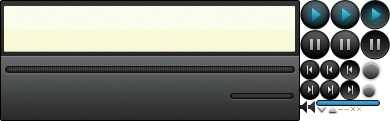
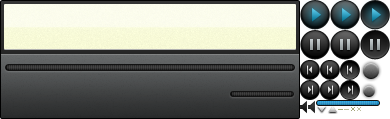
style changes

diff --git a/build/player.js b/build/player.js
@@ -1,1 +1,1 @@
-Ext.ns("Xap").Format={formatTime:function(c){var b=c/1000,a=Math.floor(b/60),d=Math.floor(b%60);return Ext.String.format("{0}:{1}",a,d<10?"0"+d:d)}};Ext.ns("Xap").Format={formatTime:function(c){var b=c/1000,a=Math.floor(b/60),d=Math.floor(b%60);return Ext.String.format("{0}:{1}",a,d<10?"0"+d:d)}};Ext.ns("Xap").Templates={trackInfo:new Ext.XTemplate('<p class="xap-time-elapsed">{position:this.formatPosition}</p>','<div class="xap-id3">','<p class="xap-artist">{artist:defaultValue("Unknown")}</p>','<p class="xap-title">{title:defaultValue("Unknown")}</p>',"</div>",'<p class="xap-time-total">{duration:this.formatDuration}</p>',{formatPosition:function(a){return Xap.Format.formatTime(a||0)},formatDuration:function(a){return a?Xap.Format.formatTime(a):""}})};Ext.define("Xap.TrackInfo",{extend:"Ext.panel.Panel",alias:"widget.xap.trackinfo",requires:["Xap.Templates"],height:56,tpl:Xap.Templates.trackInfo,cls:"xap-trackinfo",initComponent:function(){this.info={};this.callParent(arguments)},set:function(a){this.update(Ext.apply(this.info,a))},clear:function(){(new Ext.core.Element(this.body)).update("")}});Ext.define("Xap.TrackSlider",{extend:"Ext.slider.Single",alias:"widget.xap.trackslider",animate:false,width:290,value:0,increment:1,minValue:0,maxValue:0,cls:"xap-trackslider",tipText:function(a){return Xap.Format.formatTime(a.value)}});Ext.define("Xap.VolumeSlider",{extend:"Ext.slider.Single",alias:"widget.xap.volumeslider",animate:false,width:64,value:0,increment:1,minValue:0,maxValue:100,cls:"xap-volumeslider",tipText:function(a){return a.value+"%"}});Ext.regModel("Track",{fields:["url","artist","title","duration","album","smSound"]});Ext.define("Xap.Playlist",{extend:"Ext.grid.GridPanel",alias:"widget.xap.playlist",showArtist:true,height:200,width:300,border:0,cls:"xap-playlist",sortableHeaders:false,constructor:function(){this.addEvents("trackselect");this.callParent(arguments)},initComponent:function(){var b=this,a=[{header:"Track",dataIndex:"title",flex:1,menuDisabled:true}];if(b.showArtist){a.push({header:"Artist",dataIndex:"artist",flex:1,menuDisabled:true})}if(b.showTime){a.push({header:"Time",dataIndex:"duration",renderer:b.renderTime,width:35,menuDisabled:true})}if(b.showAlbum){a.push({header:"Album",dataIndex:"album",flex:1,menuDisabled:true})}Ext.apply(b,{columns:a,selModel:Ext.create("Ext.selection.RowModel",{enableKeyNav:false,listeners:{select:{fn:b.onSelect,scope:b}}})});b.callParent(arguments)},moveTo:function(a){this.getSelectionModel().select(a)},onSelect:function(c,a,b){this.fireEvent("trackselect",b)},renderTime:function(a){return a?Xap.Format.formatTime(a):""}});Ext.define("Xap.Player",{extend:"Ext.panel.Panel",alias:"widget.xap.player",requires:["Xap.TrackInfo","Xap.TrackSlider","Xap.VolumeSlider","Xap.Playlist"],statics:{autoSid:0},volume:75,lazy:true,height:121,width:300,cls:"xap-player",layout:"anchor",initComponent:function(){var b=this,c=new Xap.TrackInfo(),a=new Xap.TrackSlider({listeners:{render:{fn:b.disableSlider,scope:b},dragstart:{fn:b.onTrackSliderDragStart,scope:b},changecomplete:{fn:b.onTrackSliderChangeComplete,scope:b}}});Ext.apply(b,{trackInfo:c,trackSlider:a,store:new Ext.data.Store({model:"Track"}),items:[c,a],bbar:b.initBottomBar()});b.callParent(arguments)},initBottomBar:function(){var f=this,c=Ext.button.Button,b=f.playlistButton=new c({tooltip:"Playlist",cls:"xap-arrow-up",handler:f.togglePlaylist,scope:f}),d=f.playButton=new c({tooltip:"Play|Pause",cls:"xap-play",handler:f.togglePause,scope:f}),j=f.muteButton=new c({tooltip:"Mute|Unmute",cls:"xap-unmuted",handler:f.toggleMute,scope:f}),g=f.prevButton=new c({tooltip:"Previous",cls:"xap-prev",handler:f.movePrev,scope:f}),h=f.nextButton=new c({tooltip:"Next",cls:"xap-next",handler:f.moveNext,scope:f}),a=f.onVolumeSliderChange,i=f.volumeSlider=new Xap.VolumeSlider({value:f.volume,listeners:{render:{fn:f.disableSlider,scope:f},drag:{fn:a,scope:f},changecomplete:{fn:a,scope:f}}}),e=function(k){return{xtype:"tbspacer",width:k}};return[e(4),b,e(92),g,e(3),d,e(3),h,"->",j,e(2),i,e(6)]},afterRender:function(){var b=this,a=b.getEl(),c=b.playlist=Ext.create("Xap.Playlist",Ext.apply(b.playlistConfig||{},{store:b.store,listeners:{trackselect:{fn:b.onPlaylistTrackSelect,scope:b},itemmousedown:{fn:b.onPlaylistItemMousedown,scope:b}},renderTo:a.parent()}));b.callParent(arguments);if(!b.showPlaylist){b.togglePlaylist()}c.alignTo(a,"tl-bl");if(b.files){if(b.autoPlay){b.loadAndPlay(b.files)}else{b.load(b.files)}}},loadAndPlay:function(c){var b=this,a=b.store.getCount();b.load(c);b.moveTo(a);b.play()},load:function(b){var a=this;Ext.Array.forEach(b,function(d){var c=a.createSmSound(d,true);c.load();a.store.add({url:d,smSound:c})});if(!Ext.isNumber(a.currentTrackIndex)){a.moveTo(0)}a.trackSlider.enable();a.volumeSlider.enable()},unload:function(d){var c=this,a=c.store,b;if(!d){a.each(function(e){c.unload(e.get("url"))})}if(Ext.isArray(d)){Ext.Array.forEach(d,function(e){c.unload(e)})}b=c.getTrackIndexByUrl(d);if(b===c.currentTrackIndex){c.moveNext();c.currentTrackIndex=Math.min(c.currentTrackIndex-1,0)}if(b<c.currentTrackIndex){c.currentTrackIndex--}a.getAt(b).get("smSound").destruct();a.removeAt(b);if(a.getCount()===0){this.trackSlider.disable();this.volumeSlider.disable()}},togglePause:function(){var a=this;if(a.getCurrentSmSound()){if(a.isPlaying()){a.pause()}else{a.play()}}},pause:function(){var b=this,a=b.getCurrentSmSound();if(b.isPlaying()){a.pause();b.playButton.removeCls("xap-pause");b.playButton.addCls("xap-play")}},play:function(){var b=this,a=b.getCurrentSmSound();if(!b.isPlaying()){a.play();b.playButton.removeCls("xap-play");b.playButton.addCls("xap-pause")}},stop:function(){var a=this.getCurrentSmSound();if(a){a.stop()}},mute:function(){this.getCurrentSmSound().mute();this.muteButton.removeCls("xap-unmuted");this.muteButton.addCls("xap-muted");this.volumeSlider.setValue(0)},unmute:function(){var b=this,a=b.getCurrentSmSound();b.getCurrentSmSound().unmute();b.muteButton.removeCls("xap-muted");b.muteButton.addCls("xap-unmuted");b.volumeSlider.setValue(a.volume)},toggleMute:function(){if(this.getCurrentSmSound().muted){this.unmute()}else{this.mute()}},movePrev:function(){var b=this,a=b.currentTrackIndex;if(a===0){if(b.repeat){b.moveTo(b.store.getCount()-1)}else{return false}}else{b.moveTo(a-1)}return true},moveNext:function(){var b=this,a=b.currentTrackIndex;if(a===b.store.getCount()-1){if(b.repeat){b.moveTo(0)}else{return false}}else{b.moveTo(a+1)}return true},moveTo:function(c){var d=this,a=d.getCurrentSmSound(),f=d.isPlaying(),e=a&&(a.muted),b=d.prevButton,g=d.nextButton;d.stop();d.currentTrackIndex=c;a=d.getCurrentSmSound();a.load();d.updateTrackPosition(0);d.updateTrackInfoDisplay();if(a.loaded){d.setTrackDuration(a,true)}else{d.setTrackDuration(a)}d.onVolumeSliderChange(d.volumeSlider);if(!d.repeat){if(c===0){b.disable();g.enable()}else{if(c===d.store.getCount()-1){g.disable();b.enable()}else{b.enable();g.enable()}}}if(e){d.mute()}if(f){d.play()}d.playlist.moveTo(c)},createSmSound:function(a){var b=this,c=function(d){return function(){d.call(b,this)}};return soundManager.createSound({id:"xap-sound-"+this.self.autoSid++,url:a,onload:c(b.onLoad),onid3:c(b.onId3),whileloading:c(b.onWhileLoading),whileplaying:c(b.onWhilePlaying),onfinish:c(b.onTrackFinish)})},updateTrackInfoDisplay:function(){this.trackInfo.set(this.getId3Info(this.getCurrentSmSound()))},getId3Info:function(a){var b=a.id3;return{artist:b.TPE1,title:b.TIT2,album:b.TALB,duration:b.TLEN}},onId3:function(b){var a=this.getTrackByUrl(b.url);a.set(this.getId3Info(b));a.commit();if(this.isCurrentSmSound(b)){this.updateTrackInfoDisplay()}else{if(this.lazy){b.unload()}}},onWhileLoading:function(a){if(!a.id3.TLEN){this.setTrackDuration(a)}},onLoad:function(a){this.setTrackDuration(a,true)},setTrackDuration:function(b,d){var c=d?b.duration:b.durationEstimate||0,a=this.getTrackByUrl(b.url);a.set({duration:c});a.commit();if(this.isCurrentSmSound(b)){this.updateTrackDurationDisplay(c)}},updateTrackDurationDisplay:function(a){this.trackInfo.set({duration:a});this.trackSlider.setMaxValue(a)},updateTrackPosition:function(a){if(!Ext.isNumber(a)){a=this.getCurrentSmSound().position}if(!this.isSliderDragging){this.trackInfo.set({position:a});this.trackSlider.setValue(a)}},onWhilePlaying:function(a){this.updateTrackPosition()},onTrackSliderDragStart:function(a,b){this.isSliderDragging=true},onTrackSliderChangeComplete:function(b){var a=b.getValue();this.isSliderDragging=false;this.getCurrentSmSound().setPosition(b.getValue());if(a===0){this.updateTrackPosition(0)}},onVolumeSliderChange:function(b){var a=this.getCurrentSmSound();a.setVolume(b.getValue());this.unmute()},onTrackFinish:function(a){var b=this;if(b.moveNext()){b.play()}else{b.moveTo(0);b.playButton.removeCls("xap-pause");b.playButton.addCls("xap-play")}},disableSlider:function(a){if(!this.getCurrentSmSound()){a.disable()}},getCurrentSmSound:function(){var a=this.store.getAt(this.currentTrackIndex);return a?a.get("smSound"):null},isCurrentSmSound:function(a){return a===this.getCurrentSmSound()},getTrackByUrl:function(a){return this.store.findRecord("url",a,0,false,true,true)},getTrackIndexByUrl:function(a){return this.store.find("url",a,0,false,true,true)},togglePlaylist:function(){var a=this,c=a.playlist,b=a.playlistButton;if(c.isHidden()){c.show();b.removeCls("xap-arrow-down");b.addCls("xap-arrow-up")}else{c.hide();b.removeCls("xap-arrow-up");b.addCls("xap-arrow-down")}},isPlaying:function(){var a=this.getCurrentSmSound();return a&&a.playState===1&&!a.paused},onTrackSelect:function(a){this.moveTo(a);this.play()},onPlaylistTrackSelect:function(a){this.moveTo(a)},onPlaylistItemMousedown:function(){this.getCurrentSmSound().setPosition(0);this.play()}});
+Ext.ns("Xap").Format={formatTime:function(c){var b=c/1000,a=Math.floor(b/60),d=Math.floor(b%60);return Ext.String.format("{0}:{1}",a,d<10?"0"+d:d)}};Ext.ns("Xap").Format={formatTime:function(c){var b=c/1000,a=Math.floor(b/60),d=Math.floor(b%60);return Ext.String.format("{0}:{1}",a,d<10?"0"+d:d)}};Ext.ns("Xap").Templates={trackInfo:new Ext.XTemplate('<p class="xap-time-elapsed">{position:this.formatPosition}</p>','<div class="xap-id3">','<p class="xap-artist">{artist:defaultValue("Unknown")}</p>','<p class="xap-title">{title:defaultValue("Unknown")}</p>',"</div>",'<p class="xap-time-total">{duration:this.formatDuration}</p>',{formatPosition:function(a){return Xap.Format.formatTime(a||0)},formatDuration:function(a){return a?Xap.Format.formatTime(a):""}})};Ext.define("Xap.TrackInfo",{extend:"Ext.panel.Panel",alias:"widget.xap.trackinfo",requires:["Xap.Templates"],height:54,tpl:Xap.Templates.trackInfo,cls:"xap-trackinfo",initComponent:function(){this.info={};this.callParent(arguments)},set:function(a){this.update(Ext.apply(this.info,a))},clear:function(){(new Ext.core.Element(this.body)).update("")}});Ext.define("Xap.TrackSlider",{extend:"Ext.slider.Single",alias:"widget.xap.trackslider",animate:false,width:290,value:0,increment:1,minValue:0,maxValue:0,cls:"xap-trackslider",tipText:function(a){return Xap.Format.formatTime(a.value)}});Ext.define("Xap.VolumeSlider",{extend:"Ext.slider.Single",alias:"widget.xap.volumeslider",animate:false,width:64,value:0,increment:1,minValue:0,maxValue:100,cls:"xap-volumeslider",tipText:function(a){return a.value+"%"}});Ext.regModel("Track",{fields:["url","artist","title","duration","album","smSound"]});Ext.define("Xap.Playlist",{extend:"Ext.grid.GridPanel",alias:"widget.xap.playlist",showArtist:true,height:200,width:300,border:0,cls:"xap-playlist",sortableHeaders:false,constructor:function(){this.addEvents("trackselect");this.callParent(arguments)},initComponent:function(){var b=this,a=[{header:"Track",dataIndex:"title",flex:1,menuDisabled:true}];if(b.showArtist){a.push({header:"Artist",dataIndex:"artist",flex:1,menuDisabled:true})}if(b.showTime){a.push({header:"Time",dataIndex:"duration",renderer:b.renderTime,width:35,menuDisabled:true})}if(b.showAlbum){a.push({header:"Album",dataIndex:"album",flex:1,menuDisabled:true})}Ext.apply(b,{columns:a,selModel:Ext.create("Ext.selection.RowModel",{enableKeyNav:false,listeners:{select:{fn:b.onSelect,scope:b}}})});b.callParent(arguments)},moveTo:function(a){this.getSelectionModel().select(a)},onSelect:function(c,a,b){this.fireEvent("trackselect",b)},renderTime:function(a){return a?Xap.Format.formatTime(a):""}});Ext.define("Xap.Player",{extend:"Ext.panel.Panel",alias:"widget.xap.player",requires:["Xap.TrackInfo","Xap.TrackSlider","Xap.VolumeSlider","Xap.Playlist"],statics:{autoSid:0},volume:75,lazy:true,height:119,width:300,cls:"xap-player",layout:"anchor",initComponent:function(){var b=this,c=new Xap.TrackInfo(),a=new Xap.TrackSlider({listeners:{render:{fn:b.disableSlider,scope:b},dragstart:{fn:b.onTrackSliderDragStart,scope:b},changecomplete:{fn:b.onTrackSliderChangeComplete,scope:b}}});Ext.apply(b,{trackInfo:c,trackSlider:a,store:new Ext.data.Store({model:"Track"}),items:[c,a],bbar:b.initBottomBar()});b.callParent(arguments)},initBottomBar:function(){var f=this,c=Ext.button.Button,b=f.playlistButton=new c({tooltip:"Playlist",cls:"xap-arrow-up",handler:f.togglePlaylist,scope:f}),d=f.playButton=new c({tooltip:"Play|Pause",cls:"xap-play",handler:f.togglePause,scope:f}),j=f.muteButton=new c({tooltip:"Mute|Unmute",cls:"xap-unmuted",handler:f.toggleMute,scope:f}),g=f.prevButton=new c({tooltip:"Previous",cls:"xap-prev",handler:f.movePrev,scope:f}),h=f.nextButton=new c({tooltip:"Next",cls:"xap-next",handler:f.moveNext,scope:f}),a=f.onVolumeSliderChange,i=f.volumeSlider=new Xap.VolumeSlider({value:f.volume,listeners:{render:{fn:f.disableSlider,scope:f},drag:{fn:a,scope:f},changecomplete:{fn:a,scope:f}}}),e=function(k){return{xtype:"tbspacer",width:k}};return[e(4),b,e(92),g,e(3),d,e(3),h,"->",j,e(2),i,e(6)]},afterRender:function(){var b=this,a=b.getEl(),c=b.playlist=Ext.create("Xap.Playlist",Ext.apply(b.playlistConfig||{},{store:b.store,listeners:{trackselect:{fn:b.onPlaylistTrackSelect,scope:b},itemmousedown:{fn:b.onPlaylistItemMousedown,scope:b}},renderTo:a.parent()}));b.callParent(arguments);if(!b.showPlaylist){b.togglePlaylist()}c.alignTo(a,"tl-bl");if(b.files){if(b.autoPlay){b.loadAndPlay(b.files)}else{b.load(b.files)}}},loadAndPlay:function(c){var b=this,a=b.store.getCount();b.load(c);b.moveTo(a);b.play()},load:function(b){var a=this;Ext.Array.forEach(b,function(d){var c=a.createSmSound(d,true);c.load();a.store.add({url:d,smSound:c})});if(!Ext.isNumber(a.currentTrackIndex)){a.moveTo(0)}a.trackSlider.enable();a.volumeSlider.enable()},unload:function(d){var c=this,a=c.store,b;if(!d){a.each(function(e){c.unload(e.get("url"))})}if(Ext.isArray(d)){Ext.Array.forEach(d,function(e){c.unload(e)})}b=c.getTrackIndexByUrl(d);if(b===c.currentTrackIndex){c.moveNext();c.currentTrackIndex=Math.min(c.currentTrackIndex-1,0)}if(b<c.currentTrackIndex){c.currentTrackIndex--}a.getAt(b).get("smSound").destruct();a.removeAt(b);if(a.getCount()===0){this.trackSlider.disable();this.volumeSlider.disable()}},togglePause:function(){var a=this;if(a.getCurrentSmSound()){if(a.isPlaying()){a.pause()}else{a.play()}}},pause:function(){var b=this,a=b.getCurrentSmSound();if(b.isPlaying()){a.pause();b.playButton.removeCls("xap-pause");b.playButton.addCls("xap-play")}},play:function(){var b=this,a=b.getCurrentSmSound();if(!b.isPlaying()){a.play();b.playButton.removeCls("xap-play");b.playButton.addCls("xap-pause")}},stop:function(){var a=this.getCurrentSmSound();if(a){a.stop()}},mute:function(){this.getCurrentSmSound().mute();this.muteButton.removeCls("xap-unmuted");this.muteButton.addCls("xap-muted");this.volumeSlider.setValue(0)},unmute:function(){var b=this,a=b.getCurrentSmSound();b.getCurrentSmSound().unmute();b.muteButton.removeCls("xap-muted");b.muteButton.addCls("xap-unmuted");b.volumeSlider.setValue(a.volume)},toggleMute:function(){if(this.getCurrentSmSound().muted){this.unmute()}else{this.mute()}},movePrev:function(){var b=this,a=b.currentTrackIndex;if(a===0){if(b.repeat){b.moveTo(b.store.getCount()-1)}else{return false}}else{b.moveTo(a-1)}return true},moveNext:function(){var b=this,a=b.currentTrackIndex;if(a===b.store.getCount()-1){if(b.repeat){b.moveTo(0)}else{return false}}else{b.moveTo(a+1)}return true},moveTo:function(c){var d=this,a=d.getCurrentSmSound(),f=d.isPlaying(),e=a&&(a.muted),b=d.prevButton,g=d.nextButton;d.stop();d.currentTrackIndex=c;a=d.getCurrentSmSound();a.load();d.updateTrackPosition(0);d.updateTrackInfoDisplay();if(a.loaded){d.setTrackDuration(a,true)}else{d.setTrackDuration(a)}d.onVolumeSliderChange(d.volumeSlider);if(!d.repeat){if(c===0){b.disable();g.enable()}else{if(c===d.store.getCount()-1){g.disable();b.enable()}else{b.enable();g.enable()}}}if(e){d.mute()}if(f){d.play()}d.playlist.moveTo(c)},createSmSound:function(a){var b=this,c=function(d){return function(){d.call(b,this)}};return soundManager.createSound({id:"xap-sound-"+this.self.autoSid++,url:a,onload:c(b.onLoad),onid3:c(b.onId3),whileloading:c(b.onWhileLoading),whileplaying:c(b.onWhilePlaying),onfinish:c(b.onTrackFinish)})},updateTrackInfoDisplay:function(){this.trackInfo.set(this.getId3Info(this.getCurrentSmSound()))},getId3Info:function(a){var b=a.id3;return{artist:b.TPE1,title:b.TIT2,album:b.TALB,duration:b.TLEN}},onId3:function(b){var a=this.getTrackByUrl(b.url);a.set(this.getId3Info(b));a.commit();if(this.isCurrentSmSound(b)){this.updateTrackInfoDisplay()}else{if(this.lazy){b.unload()}}},onWhileLoading:function(a){if(!a.id3.TLEN){this.setTrackDuration(a)}},onLoad:function(a){this.setTrackDuration(a,true)},setTrackDuration:function(b,d){var c=d?b.duration:b.durationEstimate||0,a=this.getTrackByUrl(b.url);a.set({duration:c});a.commit();if(this.isCurrentSmSound(b)){this.updateTrackDurationDisplay(c)}},updateTrackDurationDisplay:function(a){this.trackInfo.set({duration:a});this.trackSlider.setMaxValue(a)},updateTrackPosition:function(a){if(!Ext.isNumber(a)){a=this.getCurrentSmSound().position}if(!this.isSliderDragging){this.trackInfo.set({position:a});this.trackSlider.setValue(a)}},onWhilePlaying:function(a){this.updateTrackPosition()},onTrackSliderDragStart:function(a,b){this.isSliderDragging=true},onTrackSliderChangeComplete:function(b){var a=b.getValue();this.isSliderDragging=false;this.getCurrentSmSound().setPosition(b.getValue());if(a===0){this.updateTrackPosition(0)}},onVolumeSliderChange:function(b){var a=this.getCurrentSmSound();a.setVolume(b.getValue());this.unmute()},onTrackFinish:function(a){var b=this;if(b.moveNext()){b.play()}else{b.moveTo(0);b.playButton.removeCls("xap-pause");b.playButton.addCls("xap-play")}},disableSlider:function(a){if(!this.getCurrentSmSound()){a.disable()}},getCurrentSmSound:function(){var a=this.store.getAt(this.currentTrackIndex);return a?a.get("smSound"):null},isCurrentSmSound:function(a){return a===this.getCurrentSmSound()},getTrackByUrl:function(a){return this.store.findRecord("url",a,0,false,true,true)},getTrackIndexByUrl:function(a){return this.store.find("url",a,0,false,true,true)},togglePlaylist:function(){var a=this,c=a.playlist,b=a.playlistButton;if(c.isHidden()){c.show();b.removeCls("xap-arrow-down");b.addCls("xap-arrow-up")}else{c.hide();b.removeCls("xap-arrow-up");b.addCls("xap-arrow-down")}},isPlaying:function(){var a=this.getCurrentSmSound();return a&&a.playState===1&&!a.paused},onTrackSelect:function(a){this.moveTo(a);this.play()},onPlaylistTrackSelect:function(a){this.moveTo(a)},onPlaylistItemMousedown:function(){this.getCurrentSmSound().setPosition(0);this.play()}});

diff --git a/build/player.css b/build/player.css
@@ -1,1 +1,1 @@
-.xap-player{background:url('../img/player.png');font-family:helvetica,arial,verdana,sans-serif;}.xap-player .x-panel-body{border:0;background:transparent;}.xap-player .x-toolbar{height:40px;background:transparent!important;border:0;}.xap-player .x-btn-toolbar{background:transparent;border:0;}.xap-trackinfo .x-panel-body{height:56px;font-weight:bold;font-size:11px;padding:0 4px;color:#5b5d35;}.xap-time-elapsed,.xap-id3,.xap-time-total{float:left;text-align:center;}.xap-time-elapsed,.xap-time-total{width:40px;margin-top:22px;}.xap-id3{margin-top:14px;width:210px;white-space:nowrap;overflow:hidden;}.xap-player .x-btn,.xap-player .x-btn-inner{padding:0;border:0;background:transparent;}.xap-player .x-btn-inner,.xap-player .x-slider-horz .x-slider-thumb{background:url('../img/player.png');}.xap-player .x-slider-horz,.xap-player .x-slider-horz .x-slider-end,.xap-player .x-slider-horz .x-slider-inner{background:none;}.xap-trackslider{margin:5px 5px 0;}.xap-trackslider .x-slider-horz .x-slider-inner{height:22px;}.xap-trackslider .x-slider-horz .x-slider-thumb{height:22px;width:22px;top:-2px;background-position:-360px -60px;}.xap-volumeslider{top:6px!important;}.xap-volumeslider .x-slider-horz .x-slider-inner{height:18px;}.xap-volumeslider .x-slider-horz .x-slider-thumb{height:18px;width:18px;top:0;background-position:-360px -82px;}.xap-volumeslider .x-slider-horz{padding-left:5px;}.xap-volumeslider .x-slider-horz .x-slider-end{padding-right:5px;}.xap-prev,.xap-next{top:5px!important;}.xap-prev .x-btn-inner,.xap-prev button,.xap-next .x-btn-inner,.xap-next button{width:20px;height:20px;}.xap-prev.x-btn-disabled .x-btn-inner,.xap-next.x-btn-disabled .x-btn-inner{filter:progid:DXImageTransform.Microsoft.Alpha(Opacity=80,style=2);}.xap-prev .x-btn-inner{background-position:-300px -60px;}.xap-prev.x-btn-over .x-btn-inner{background-position:-320px -60px;}.xap-prev.x-btn-pressed .x-btn-inner{background-position:-340px -60px;}.xap-next .x-btn-inner{background-position:-300px -80px;}.xap-next.x-btn-over .x-btn-inner{background-position:-320px -80px;}.xap-next.x-btn-pressed .x-btn-inner{background-position:-340px -80px;}.xap-play,.xap-pause{top:0!important;}.xap-play .x-btn-inner,.xap-play button,.xap-pause .x-btn-inner,.xap-pause button{width:30px;height:30px;}.xap-play .x-btn-inner{background-position:-300px 0;}.xap-play.x-btn-over .x-btn-inner{background-position:-330px 0;}.xap-play.x-btn-pressed .x-btn-inner{background-position:-360px 0;}.xap-pause .x-btn-inner{background-position:-300px -30px;}.xap-pause.x-btn-over .x-btn-inner{background-position:-330px -30px;}.xap-pause.x-btn-pressed .x-btn-inner{background-position:-360px -30px;}.xap-muted,.xap-unmuted{top:7px!important;}.xap-muted .x-btn-inner,.xap-muted button,.xap-unmuted .x-btn-inner,.xap-unmuted button{height:14px;width:8px;}.xap-muted .x-btn-inner{background-position:-300px -100px;}.xap-muted.x-btn-over .x-btn-inner{background-position:-308px -100px;}.xap-unmuted .x-btn-inner{background-position:-300px -100px;}.xap-unmuted.x-btn-over .x-btn-inner{background-position:-308px -100px;}.xap-arrow-down,.xap-arrow-up{top:28px!important;}.xap-arrow-down em,.xap-arrow-up em{display:block;line-height:0;}.xap-arrow-down .x-btn-inner,.xap-arrow-down button,.xap-arrow-up .x-btn-inner,.xap-arrow-up button{width:11px;height:8px;}.xap-arrow-down .x-btn-inner{background-position:-316px -106px;}.xap-arrow-up .x-btn-inner{background-position:-327px -106px;}.xap-playlist{border:1px solid #808080;}.xap-playlist .x-panel-body{border:none;}.xap-playlist .x-grid-header-ct{border-top:1px solid #ececec;border-right:1px solid #abafb0;background-color:#d5d7d8;background-image:-webkit-gradient(linear,50% 0,50% 100%,color-stop(0%,#ececec),color-stop(100%,#bec2c4));background-image:-moz-linear-gradient(top,#ececec,#bec2c4);background-image:linear-gradient(top,#ececec,#bec2c4);}.xap-playlist .x-column-header{font-family:helvetica,arial,verdana,sans-serif;color:#474747;font-weight:bold;}.xap-playlist .x-column-header-over{background:transparent;}.xap-playlist .x-grid-row .x-grid-cell{border-color:#f5f5f5 #bec2c4 #bec2c4;color:#474747;font-family:helvetica,arial,verdana,sans-serif;}.xap-playlist .x-grid-row-selected .x-grid-cell,.xap-playlist .x-grid-row-selected .x-grid-rowwrap-div{background-color:#474747!important;color:#feffe5;border-color:#000;}.xap-playlist .x-grid-row-over .x-grid-cell,.xap-playlist .x-grid-row-over .x-grid-rowwrap-div{background-color:#f8f9d7;}.x-tip{background-color:#ececec;border-color:#bec2c4;}
+.xap-player{background:url('../img/player.png');font-family:helvetica,arial,verdana,sans-serif;}.xap-player .x-panel-body{border:0;background:transparent;}.xap-player .x-toolbar{height:40px;background:transparent!important;border:0;}.xap-player .x-btn-toolbar{background:transparent;border:0;}.xap-trackinfo .x-panel-body{height:56px;font-weight:bold;font-size:11px;padding:0 4px;color:#5b5d35;}.xap-time-elapsed,.xap-id3,.xap-time-total{float:left;text-align:center;}.xap-time-elapsed,.xap-time-total{width:40px;margin-top:22px;}.xap-id3{margin-top:14px;width:210px;white-space:nowrap;overflow:hidden;}.xap-player .x-btn,.xap-player .x-btn-inner{padding:0;border:0;background:transparent;cursor:default;}.xap-player .x-btn-inner,.xap-player .x-slider-horz .x-slider-thumb{background:url('../img/player.png');}.xap-player .x-slider-horz,.xap-player .x-slider-horz .x-slider-end,.xap-player .x-slider-horz .x-slider-inner{background:none;}.xap-trackslider{margin:5px 5px 0;}.xap-trackslider .x-slider-horz .x-slider-inner{height:22px;}.xap-trackslider .x-slider-horz .x-slider-thumb{height:22px;width:22px;top:-2px;background-position:-360px -60px;}.xap-volumeslider{top:6px!important;}.xap-volumeslider .x-slider-horz .x-slider-inner{height:18px;}.xap-volumeslider .x-slider-horz .x-slider-thumb{height:18px;width:18px;top:0;background-position:-360px -82px;}.xap-volumeslider .x-slider-horz{padding-left:5px;}.xap-volumeslider .x-slider-horz .x-slider-end{padding-right:5px;}.xap-prev,.xap-next{top:5px!important;}.xap-prev .x-btn-inner,.xap-prev button,.xap-next .x-btn-inner,.xap-next button{width:20px;height:20px;}.xap-prev.x-btn-disabled .x-btn-inner,.xap-next.x-btn-disabled .x-btn-inner{filter:progid:DXImageTransform.Microsoft.Alpha(Opacity=80,style=2);}.xap-prev .x-btn-inner{background-position:-300px -60px;}.xap-prev.x-btn-over .x-btn-inner{background-position:-320px -60px;}.xap-prev.x-btn-pressed .x-btn-inner{background-position:-340px -60px;}.xap-next .x-btn-inner{background-position:-300px -80px;}.xap-next.x-btn-over .x-btn-inner{background-position:-320px -80px;}.xap-next.x-btn-pressed .x-btn-inner{background-position:-340px -80px;}.xap-play,.xap-pause{top:0!important;}.xap-play .x-btn-inner,.xap-play button,.xap-pause .x-btn-inner,.xap-pause button{width:30px;height:30px;}.xap-play .x-btn-inner{background-position:-300px 0;}.xap-play.x-btn-over .x-btn-inner{background-position:-330px 0;}.xap-play.x-btn-pressed .x-btn-inner{background-position:-360px 0;}.xap-pause .x-btn-inner{background-position:-300px -30px;}.xap-pause.x-btn-over .x-btn-inner{background-position:-330px -30px;}.xap-pause.x-btn-pressed .x-btn-inner{background-position:-360px -30px;}.xap-muted,.xap-unmuted{top:7px!important;}.xap-muted .x-btn-inner,.xap-muted button,.xap-unmuted .x-btn-inner,.xap-unmuted button{height:14px;width:8px;}.xap-muted .x-btn-inner{background-position:-300px -100px;}.xap-muted.x-btn-over .x-btn-inner{background-position:-308px -100px;}.xap-unmuted .x-btn-inner{background-position:-300px -100px;}.xap-unmuted.x-btn-over .x-btn-inner{background-position:-308px -100px;}.xap-arrow-down,.xap-arrow-up{top:28px!important;}.xap-arrow-down em,.xap-arrow-up em{display:block;line-height:0;}.xap-arrow-down .x-btn-inner,.xap-arrow-down button,.xap-arrow-up .x-btn-inner,.xap-arrow-up button{width:11px;height:8px;}.xap-arrow-down .x-btn-inner{background-position:-316px -106px;}.xap-arrow-up .x-btn-inner{background-position:-327px -106px;}.xap-playlist{border:1px solid #808080;}.xap-playlist .x-panel-body{border:none;}.xap-playlist .x-grid-header-ct{border-top:1px solid #ececec;border-right:1px solid #abafb0;background-color:#d5d7d8;background-image:-webkit-gradient(linear,50% 0,50% 100%,color-stop(0%,#ececec),color-stop(100%,#bec2c4));background-image:-moz-linear-gradient(top,#ececec,#bec2c4);background-image:linear-gradient(top,#ececec,#bec2c4);}.xap-playlist .x-column-header{font-family:helvetica,arial,verdana,sans-serif;color:#474747;font-weight:bold;}.xap-playlist .x-column-header-over{background:transparent;}.xap-playlist .x-grid-row .x-grid-cell{border-color:#f5f5f5 #bec2c4 #bec2c4;color:#474747;font-family:helvetica,arial,verdana,sans-serif;}.xap-playlist .x-grid-row-selected .x-grid-cell,.xap-playlist .x-grid-row-selected .x-grid-rowwrap-div{background-color:#474747!important;color:#feffe5;border-color:#000;}.xap-playlist .x-grid-row-over .x-grid-cell,.xap-playlist .x-grid-row-over .x-grid-rowwrap-div{background-color:#f8f9d7;}.x-tip{background-color:#f8f9d7;border:1px solid #bec2c4;}.x-css-shadow{-moz-border-radius:3px;-webkit-border-radius:3px;border-radius:3px;}

diff --git a/src/css/player.css b/src/css/player.css
@@ -55,6 +55,7 @@
     padding: 0;
     border: 0;
     background: transparent;
+    cursor: default;
 }
 
 /*
@@ -280,8 +281,20 @@
  * Tooltips.  Since the tooltip element is a child of the document body, there's no way to
  * make these styles specific to Ext Audio Player.  If there are other components on the
  * same page that use tooltips conflicts may occur.
+ * configuring the slider with a "Ext.slider.Tip" plugin and setting a "cls" on the plugin
+ * is not effective, since the Tip creates an additional element in the dom that does not
+ * get the class applied to it
  */
 .x-tip {
-    background-color: #ececec;
-    border-color: #bec2c4;
+    background-color: #f8f9d7;
+    border: 1px solid #bec2c4;
+}
+/*
+ * temporary solution for corners showing behind slider tip because of shadow element
+ * disabling shadow on Tip doesn't seem to work in Ext 4 beta 3
+ */
+.x-css-shadow {
+    -moz-border-radius: 3px;
+    -webkit-border-radius: 3px;
+    border-radius: 3px;
 }

diff --git a/build/player-debug.js b/build/player-debug.js
@@ -67,7 +67,7 @@ Ext.define('Xap.TrackInfo', {
         'Xap.Templates'
     ],
 
-    height: 56,
+    height: 54,
 
     tpl: Xap.Templates.trackInfo,
     cls: 'xap-trackinfo',
@@ -338,7 +338,7 @@ Ext.define('Xap.Player', {
      * True to show playlist at startup
      */
 
-    height: 121,
+    height: 119,
     width: 300,
     cls: 'xap-player',
     layout: 'anchor',

diff --git a/src/js/Player.js b/src/js/Player.js
@@ -72,7 +72,7 @@ Ext.define('Xap.Player', {
      * True to show playlist at startup
      */
 
-    height: 121,
+    height: 119,
     width: 300,
     cls: 'xap-player',
     layout: 'anchor',

diff --git a/src/js/TrackInfo.js b/src/js/TrackInfo.js
@@ -16,7 +16,7 @@ Ext.define('Xap.TrackInfo', {
         'Xap.Templates'
     ],
 
-    height: 56,
+    height: 54,
 
     tpl: Xap.Templates.trackInfo,
     cls: 'xap-trackinfo',
